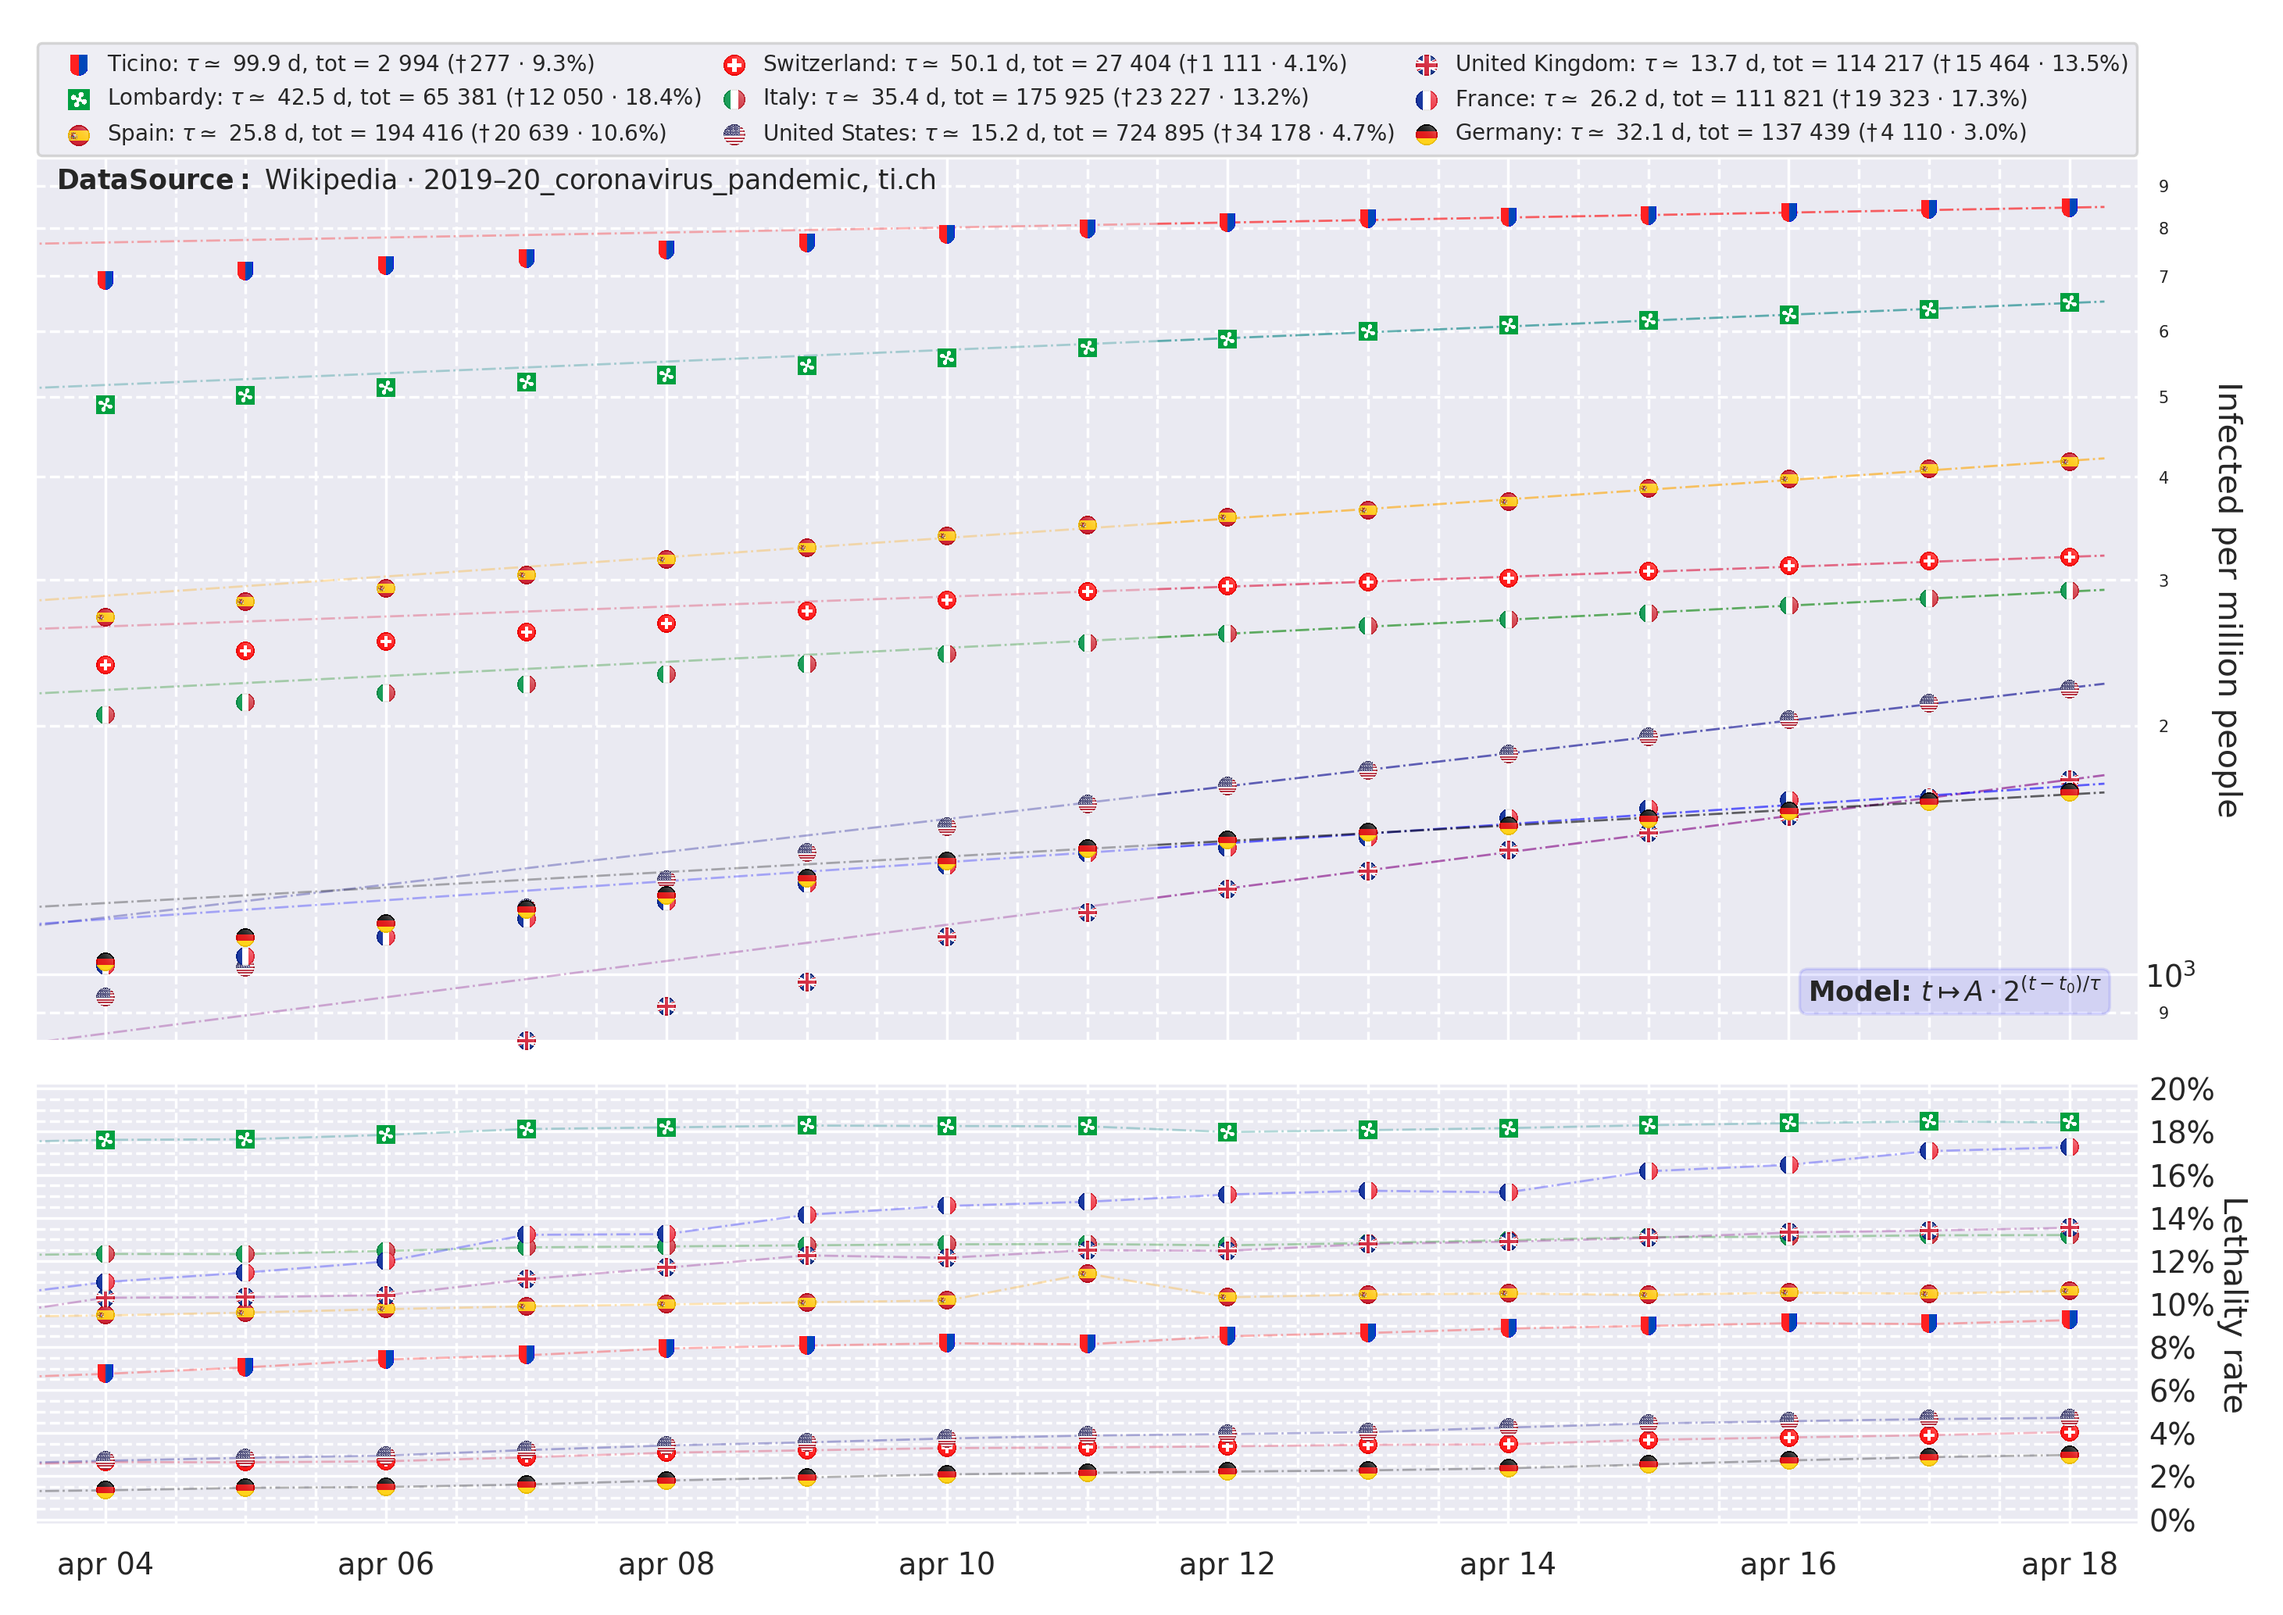
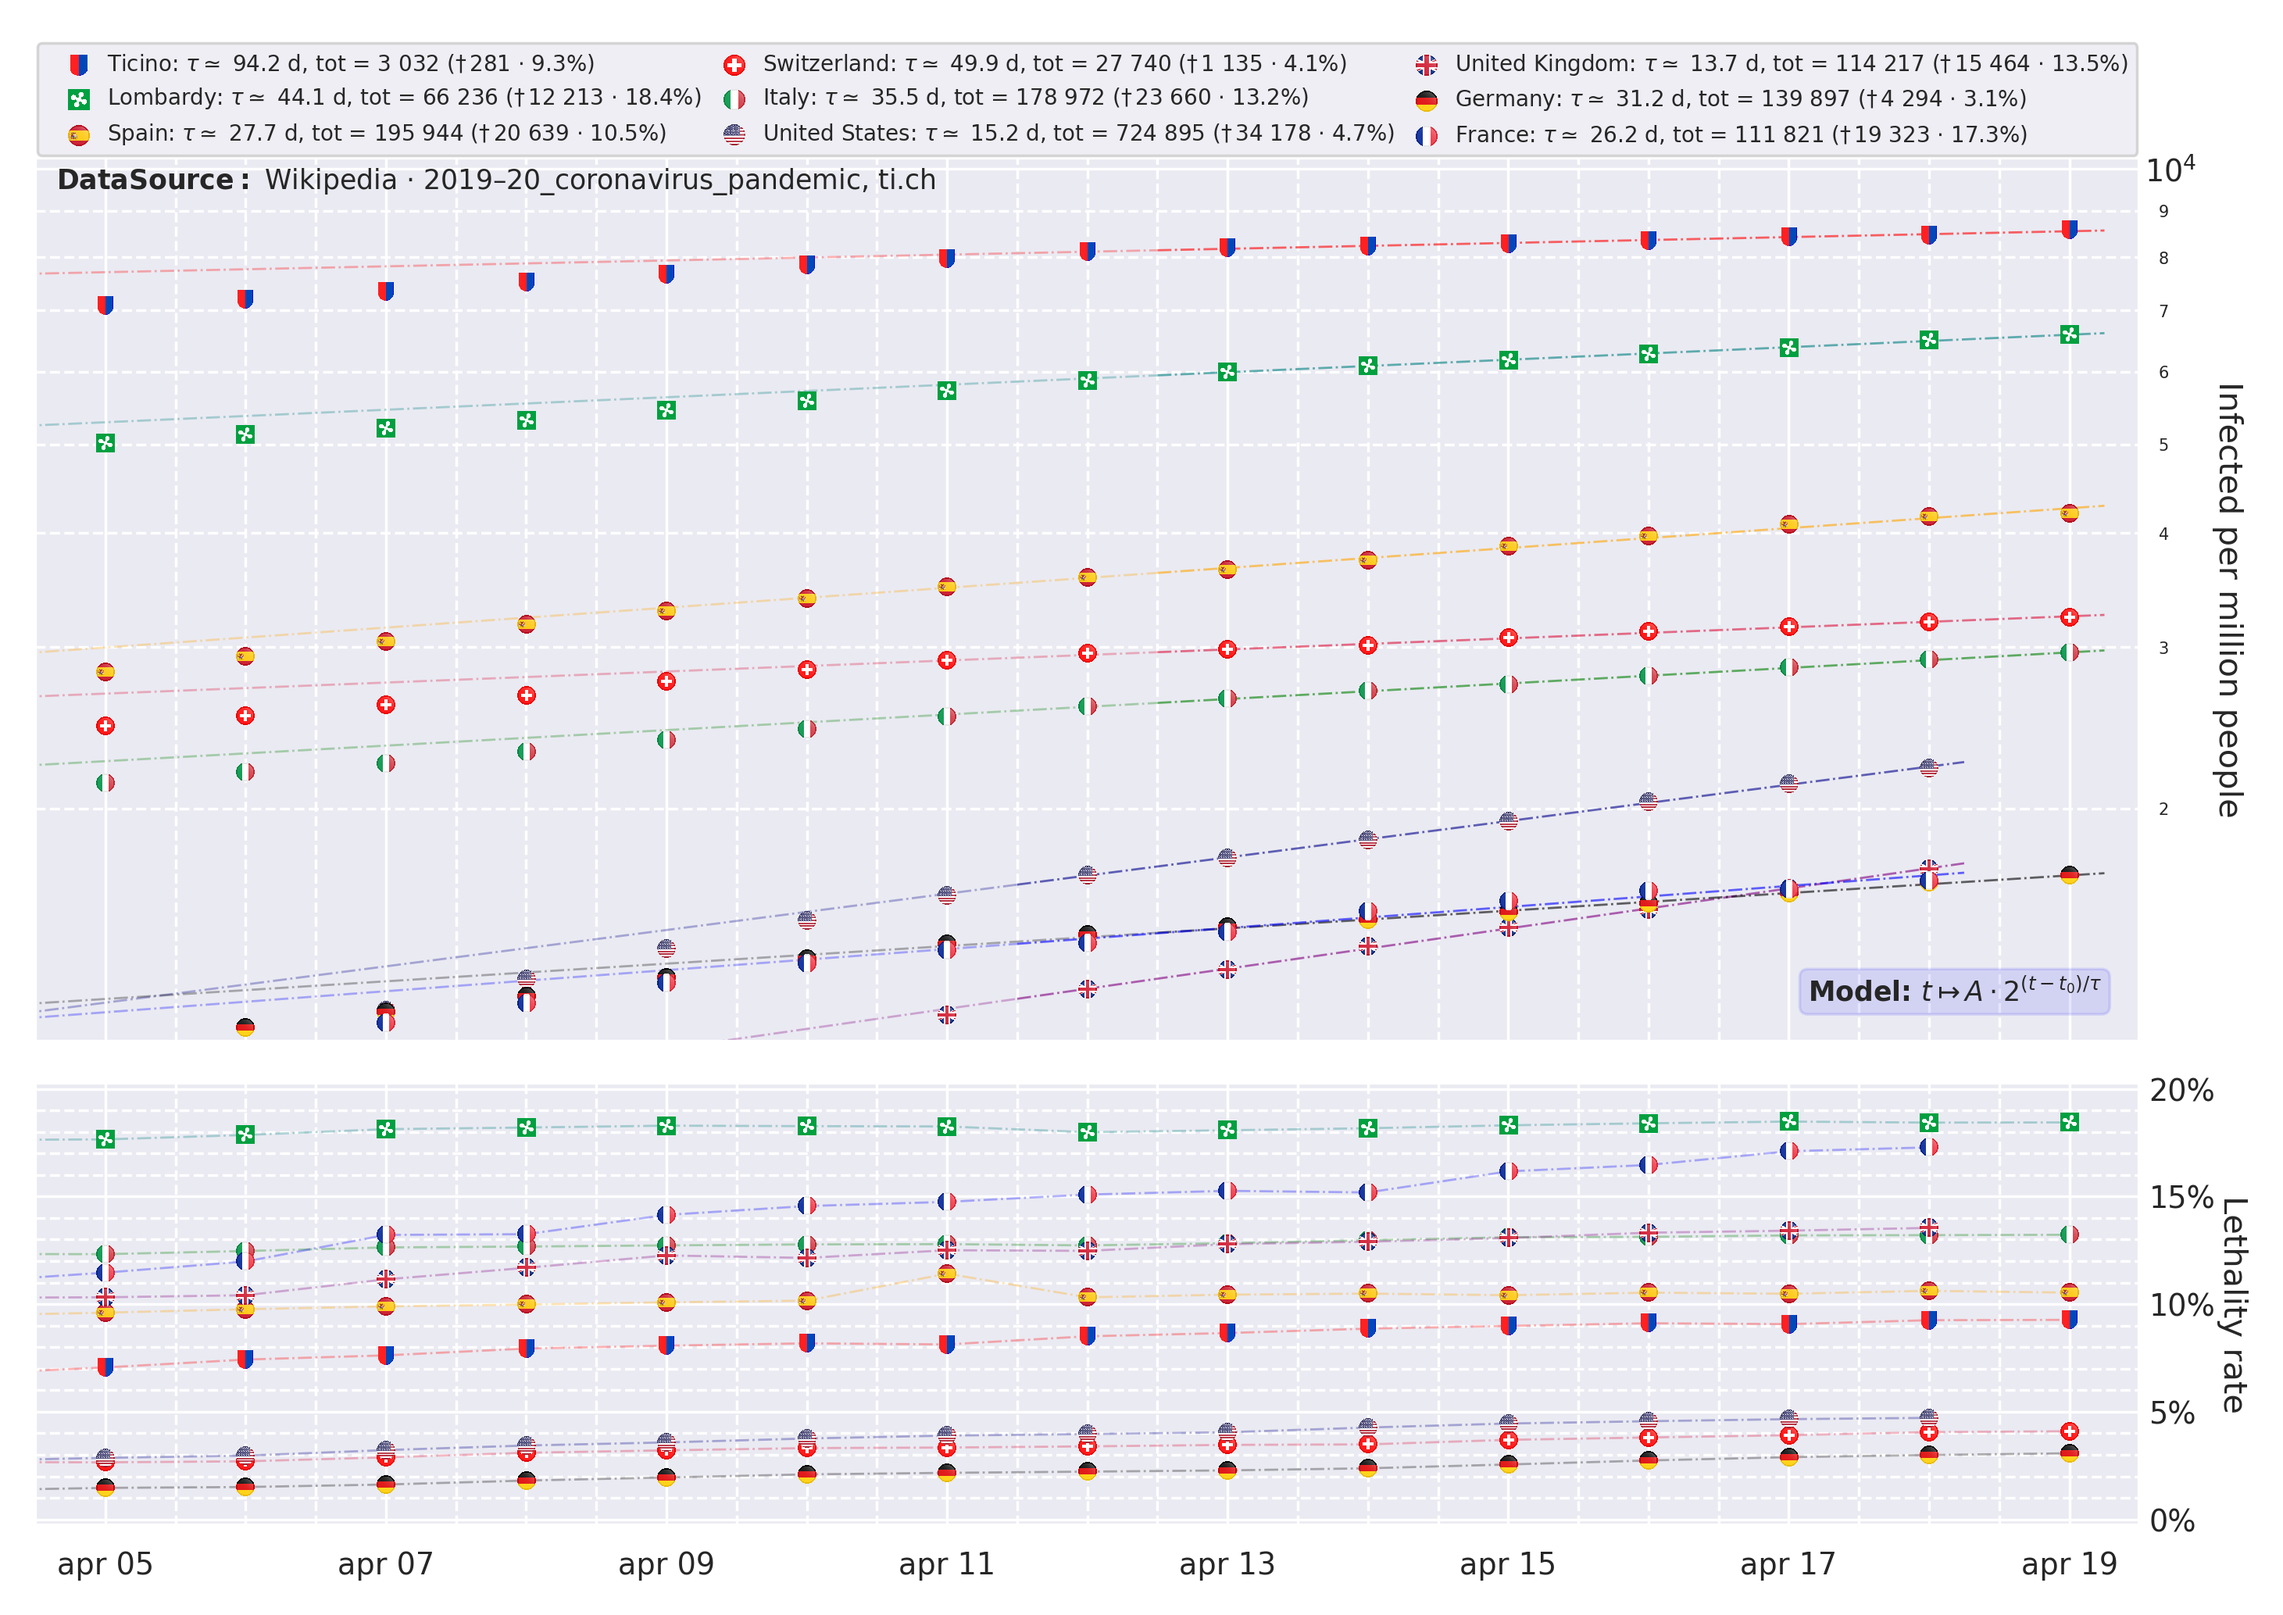
minor commit

diff --git a/Coronavirus/coronavirus.py b/Coronavirus/coronavirus.py
@@ -21,15 +21,16 @@ country_ds = pd.DataFrame(
              "last_update"]
 )
 country_ds["name"] = [
-    "United Kingdom", "Lombardy", "Italy", "Germany", "France", "Ticino", "Spain",
-    "Switzerland", "United States"
+    "United Kingdom", "Lombardy", "Italy", "Germany", "France", "Ticino",
+    "Spain", "Switzerland", "United States"
 ]
 country_ds["population"] = [
     66.44, 10.06, 60.48, 82.79, 66.99, 0.3537, 46.66, 8.57, 327.2
 ]
 country_ds["filename"] = [
-    "UnitedKingdom.dat", "Lombardy.dat", "Italy.dat", "Germany.dat", "France.dat",
-    "Ticino.dat", "Spain.dat", "Switzerland.dat", "UnitedStates.dat"
+    "UnitedKingdom.dat", "Lombardy.dat", "Italy.dat", "Germany.dat",
+    "France.dat", "Ticino.dat", "Spain.dat", "Switzerland.dat",
+    "UnitedStates.dat"
 ]
 country_ds["flagname"] = [
     "gb.png", "lo.png", "it.png", "de.png", "fr.png",
@@ -160,8 +161,8 @@ ax1.xaxis.set_major_locator(mdates.DayLocator(interval=2))
 ax1.xaxis.set_minor_locator(mdates.DayLocator())
 
 ax1.set_yscale("log")
-ax1.set_ylim(bottom=country_ds["density"].min()/2)
-ax1.set_ylim(top=country_ds["density"].max()*1.15)
+ax1.set_ylim(bottom=country_ds["density"].min()/1.5)
+ax1.set_ylim(top=country_ds["density"].max()*1.2)
 ax1.yaxis.tick_right()
 ax1.tick_params(axis="y", which="both", length=0)
 ax1.tick_params(axis="y", which="major", pad=2)
@@ -172,8 +173,8 @@ ax1.yaxis.set_minor_formatter(
 ax1.set_ylabel("Infected per million people", rotation=270, labelpad=17)
 ax1.yaxis.set_label_position("right")
 
-ax2.yaxis.set_major_locator(ticker.MultipleLocator(2))
-ax2.yaxis.set_minor_locator(ticker.MultipleLocator(.5))
+ax2.yaxis.set_major_locator(ticker.MultipleLocator(5))
+ax2.yaxis.set_minor_locator(ticker.MultipleLocator(1))
 ax2.yaxis.set_major_formatter(
     ticker.FuncFormatter(lambda y, _: "{:.0%}".format(y/100))
 )
